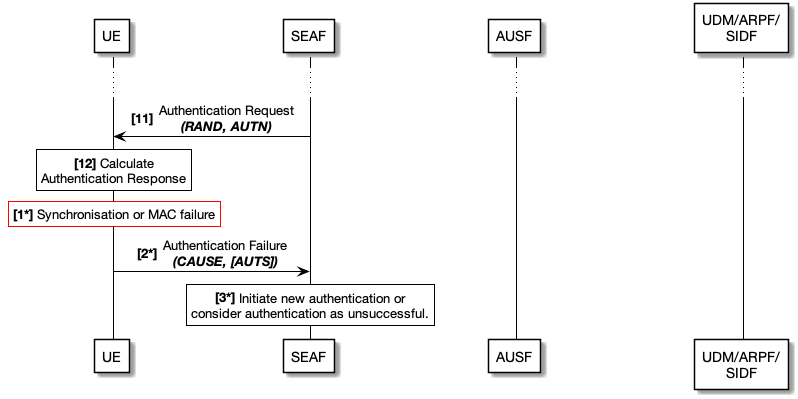
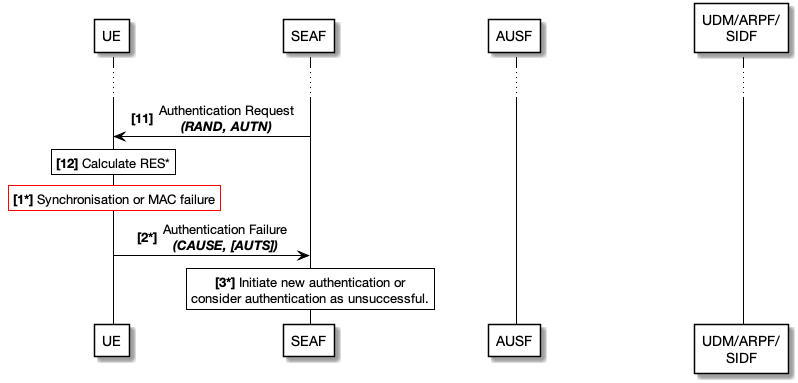
Wrote the authentification procedure in section 2.

diff --git a/Paper/chapters/2_description.tex b/Paper/chapters/2_description.tex
@@ -5,7 +5,6 @@ Das 5G-AKA-Protokoll ist eines von mehreren Protokollen des 5G-Standards.
 Vor Allem das EAP-AKA-Protokoll und das 5G-AKA-Protokoll sind f\"ur den sicheren Austausch eines Schl\"ussels zust\"andig. 
 Bei beiden Protokollen ist der erste Teil der Gleiche bis bei dem Provider eines der Protokolle ausgew\"ahlt wird. %3GPP TS 33.501 V15.34.1 Page 40
 Bei beiden Protokollen ist auch der Authentifizierungsvorgang sehr \"ahnlich, wobei jedoch der das 5G-AKA-Protokoll das EAP-AKA-Protokoll darum erweitert, dass es dem Provider, ''home network'' genannt, eine erfolgreiche Authentifizierung nachweist. %3GPP TS 33.501 V15.34.1 Page 43
-Daher wird in dieser Ausarbeitung haupts\"achlich auf das 5G-AKA-Protokoll eingegangen.
 
 Das 5G-AKA-Protokoll wird gr\"o{\ss}tenteils in der Spezifikation TS 33.501 des 3GPP beschrieben. %3GPP TS 33.501 V15.34.1
 Dabei wird die zurzeit neueste Version V15.34.1 herangezogen.
@@ -398,7 +397,7 @@ Die \textit{''Message authentication function''} f1 ist von \gls{k} abh\"angig u
 
 Der \gls{xmac} wird von dem \gls{ue} berechnet und mit dem \gls{mac} verglichen. 
 Den \gls{mac} hat das \gls{ue} bereits von der \gls{seaf} erhalten.
-Stimmen \gls{mac} und \gls{xmac} nicht \"uberein, so soll das \gls{ue} die Authentifizierung abbrechen. %3GPP TS 33.102 V15.1.0 Page 27
+Stimmen \gls{mac} und \gls{xmac} nicht \"uberein, so ist die Authentifizierung fehlgeschlagen. %3GPP TS 33.102 V15.1.0 Page 27
 
 \glsreset{xres}
 \subsubsection{\gls{xres}}
@@ -426,9 +425,6 @@ Dabei sind folgende Werte Eingabeparameter der \gls{kdf}: %3GPP TS 33.501 V15.34
 Es wird von der \gls{arpf} berechnet.
 
 
-
-
-
 \subsection{Weitere Begriffe}
 
 \glsreset{abba}
@@ -440,6 +436,122 @@ Es wird von der \gls{arpf} berechnet.
 \glsreset{ng-ksi}
 \subsubsection{\gls{ng-ksi}}
 
+
+\subsection{Authentifikationsprozedur}
+
+Die \cref{fig:protocol_v1} zeigt eine erfolgreiche Authentifizierung.
+Nach dem Ende der Prozedur haben sich alle Entit\"aten auf den \textit{''Anchor Key''} \gls{k-seaf} geeinigt.
+Dieser wird als Grundlage f\"ur die weitere Kommunikation verwendet.
+
+\begin{figure}[H]
+  \centering
+  \includegraphics[width=\textwidth]{uml/protocol_v1.png}
+  \caption{Erfolgreiche Authentifikation}
+  \label{fig:protocol_v1}
+\end{figure}
+
+Die einzelnen Nachrichten lassen sich folgenderma{\ss}en beschreiben: %3GPP TS 33.501 V15.34.1 Page 40 und 44
+
+\begin{enumerate}
+%1
+\item Das \gls{ue} sende in Schritt 1 die \textit{N1 message} an die \gls{seaf} und beginnt damit die Authentifikationsprozedur.
+Diese Nachricht beinhaltet entweder den \gls{suci} oder den \gls{5g-guti}.
+Sie werden sp\"ater von dem \gls{udm}/\gls{arpf} zur Authentifizierung des \gls{ue} verwendet.
+
+%2
+\item Nach dem Empfangen der \textit{N1 message} sendet die \gls{seaf} in Schritt 2 den \textit{Nausf\_UEAuthentication\_ Authenticate Request} an die \gls{ausf}.
+Falls in der \textit{N1 message} der \gls{5g-guti} enthalten ist, dann soll daraus der \gls{supi} abgeleitet und an die \gls{ausf} gesendet werden, ansonsten wird der \gls{suci} weitergeleitet.
+Zus\"atzlich wird noch der \gls{sn-name} mitgesendet.
+Dies ist n\"otig, da das \gls{udm} den \gls{sn-name} f\"ur die Generierung des \gls{5g-he-av} ben\"otigt.
+
+%3
+\item Nach dem Empfangen des \textit{Nausf\_UEAuthentication\_Authenticate Request}s sendet die \gls{ausf} den \textit{Nudm\_UEAuthentication\_Get Request} an das \gls{udm}.
+Er enth\"alt den \gls{suci} oder \gls{supi} und den \gls{sn-name}, den die \gls{ausf} aus \textit{Schritt 2} erhalten hat.
+
+%4
+\item Falls die \gls{ausf} in \textit{Schritt 3} den \gls{suci} an das \gls{udm} gesendet hat, dann wird in diesem Schritt aus dem \gls{suci} der \gls{supi} abgeleitet.
+Hierf\"ur wird die \gls{sidf} verwendet.
+
+%5
+\item In diesem Schritt wird die Authentifikationsmethode ausgew\"ahlt.
+Das \gls{udm} kann zwischen dem EAP-AKA' und dem 5G-AKA Protokoll w\"ahlen.
+Da in dieser Ausarbeitung nur auf das 5G-AKA-Protokoll eingegangen wird wird angenommen das hier immer das 5G-AKA-Protokoll als Authentifikationsmethode gew\"ahlt wird.
+
+%6
+\item In diesem Schritt wird der \gls{5g-he-av} generiert.
+Hierf\"ur wird der \gls{sn-name} und der \gls{supi} ben\"otigt, den das \gls{udm} in \textit{Schritt 3} erhalten oder in \textit{Schritt 4} erzeugt hat.
+
+%7
+\item In diesem Schritt sendet das \gls{udm} die \textit{Nudm\_Authentication\_Get Response} an die \gls{ausf}.
+Sie beinhaltet den \gls{5g-he-av}, der in \textit{Schritt 6} generiert wurde.
+Falls das \gls{udm} in \textit{Schritt 3} den \gls{suci} erhalten und in \textit{Schritt 4} den \gls{supi} erzeugt hat, dann wird der \gls{supi} in der \textit{Nudm\_Authentication\_Get Response} mitgeschickt.
+
+%8
+\item In Schritt 8 wird die \gls{xres*}, die in dem \gls{5g-he-av} aus \textit{Schritt 7} enthalten ist, zwischengespeichert, da sie in \textit{Schritt 16} f\"ur die Verifikation von \gls{res*} ben\"otigt wird.
+Des Weiteren wird auch der \gls{k-ausf}, welcher auch in dem \gls{5g-he-av} enthalten ist, zwischengespeichert.
+
+%9
+\item In diesem Schritt wird aus der \gls{xres*} die \gls{hxres*} gerechnet.
+Des Weiteren wird der \gls{5g-se-av} f\"ur \textit{Schritt 10} aus dem \gls{5g-he-av} berechnet.
+Daf\"ur wird die \gls{xres*} durch die \gls{hxres*} ersetzt und der \gls{k-ausf} entfernt.
+
+%10
+\item Nachdem der \gls{5g-se-av} in \textit{Schritt 9} erzeugt wurde wird er in Schritt 10 mit der \textit{Nausf\_UEAuthentication\_Authenticate Response} an die \gls{seaf} gesendet.
+
+%11
+\item Nach dem Erhalten der \textit{Nausf\_UEAuthentication\_Authenticate Response} wird die \gls{seaf} in Schritt 11 den \textit{Authentication Request}  an das \gls{ue} schicken.
+Er beinhaltet die \gls{rand} und das \gls{autn} den die \gls{seaf} in \textit{Schritt 10} erhalten hat.
+Des Weiteren wird die \gls{hxres*}, die in dem \gls{5g-se-av} enthalten ist bei der \gls{seaf} zwischengespeichert, da sie noch f\"ur \textit{Schritt 14} ben\"otigt wird.
+
+%12
+\item Nachdem das \gls{ue} den \textit{Authentication Request} von der \gls{seaf} erhalten hat wird in Schritt 12 aus der \gls{rand} und dem \gls{autn} die \gls{res*} f\"ur die \textit{Authentication Response} berechnet.
+Es wird auch der \gls{xmac} berechnet und mit dem \gls{mac}, der in dem \gls{autn} enthalten ist, verglichen.
+Stimmen \gls{xmac} und \gls{mac} \"uberein, so wird die Authentifizierung fortgesetzt.
+Stimmen sie nicht \"uberein oder kann der \gls{autn} nicht angenommen werden, so wird die Authentifizierung als Fehlgeschlagen angesehen und es wird bei \cref{fig:protocol_mac_failure_v1} weitergemacht.
+
+%13
+\item In Schritt 13 wird die \gls{res*}, die in \textit{Schritt 12} berechnet wurde, in der \textit{Authentication Response} vom \gls{ue} an die \gls{seaf} gesendet.
+
+%14
+\item Nachdem die \gls{seaf} die \textit{Authentication Response} vom \gls{ue} erhalten hat berechnet sie aus der \gls{res*} die \gls{hres*} und vergleicht sie mit der \gls{hxres*}, die sie in \textit{Schritt 11} zwischengespeichert hat.
+Stimmen sie \"ubereinn so wird bei \textit{Schritt 15} weitergemacht.
+Stimmen sie nicht \"uberein, so wird bei dem Abschnitt \textit{''HRES* failure in \gls{seaf}''} in \cref{fig:protocol_res*_verification_failure_v1} weitergemacht.
+
+%15
+\item In Schritt 15 sendet die \gls{seaf} den \textit{Nausf\_UEAuthentication\_Authenticate Request} an die \gls{ausf}.
+Er beinhaltet die \gls{res*} aus der \textit{Authentication Response}.
+
+%16
+\item Nachdem die \gls{ausf} den \textit{Nausf\_UEAuthentication\_Authenticate Request} erhalten hat vergleicht sie die \gls{res*} mit der \gls{xres*}, die sie in \textit{Schritt 8} zwischengespeichert hat.
+Stimmen sie \"ubereinn so wird bei \textit{Schritt 17} weitergemacht.
+Stimmen sie nicht \"uberein, so wird bei dem Abschnitt \textit{''RES* failure in \gls{seaf}''} in \cref{fig:protocol_res*_verification_failure_v1} weitergemacht.
+
+%17
+\item In Schritt 17 sendet die \gls{ausf} die \textit{Nausf\_UEAuthenticarion\_Authenticate Response} an die \gls{seaf}.
+Sie beinhaltet das Ergebnis des Vergleichs von \gls{res*} und \gls{xres*} aus \textit{Schritt 16} und den \textit{''Anchor Key''} \gls{k-seaf}.
+Wenn die \gls{ausf} in \textit{Schritt 7} den \gls{supi} erhalten hat, dann wird dieser nun auch an die \gls{seaf} weitergeleitet.
+\end{enumerate}
+
+
+\subsection{Fehlgeschlagene Authentifikation}
+
+\subsubsection{Fehlschlag beim Vergleich von \gls{mac} und \gls{xmac}}
+
+\begin{figure}[H]
+  \centering
+  \includegraphics[width=\textwidth]{uml/protocol_mac_failure_v1.png}
+  \caption{Fehlschlag beim Vergleich von \gls{mac} und \gls{xmac}}
+  \label{fig:protocol_mac_failure_v1}
+\end{figure}
+
+\subsubsection{Fehlschlag beim Vergleich von \gls{res*} bzw. \gls{hres*} mit \gls{xres*} bzw. \gls{hxres*}}
+
+\begin{figure}[H]
+  \centering
+  \includegraphics[width=\textwidth]{uml/protocol_res*_verification_failure_v1.png}
+  \caption{Fehlschlag beim Vergleich von \gls{res*} bzw. \gls{hres*} mit \gls{xres*} bzw. \gls{hxres*}}
+  \label{fig:protocol_res*_verification_failure_v1}
+\end{figure}
 
 
 
